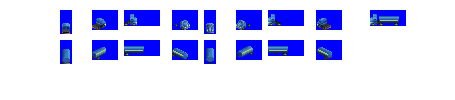
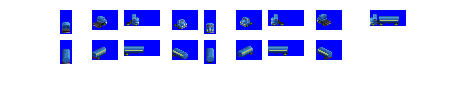
Change: correct offsets for Greenscoe Tanker

diff --git a/src/vehicles/greenscoe.py b/src/vehicles/greenscoe.py
@@ -12,7 +12,8 @@ consist = EngineConsist(id = 'greenscoe',
 consist.add_unit(Tanker(consist = consist,
                         weight = 7,
                         capacity = 0,
-                        vehicle_length = 3,
+                        vehicle_length = 2,
+                        semi_truck_shift_offset_jank = 2,
                         visual_effect = 'VISUAL_EFFECT_DIESEL',
                         spriterow_num = 0))
 
